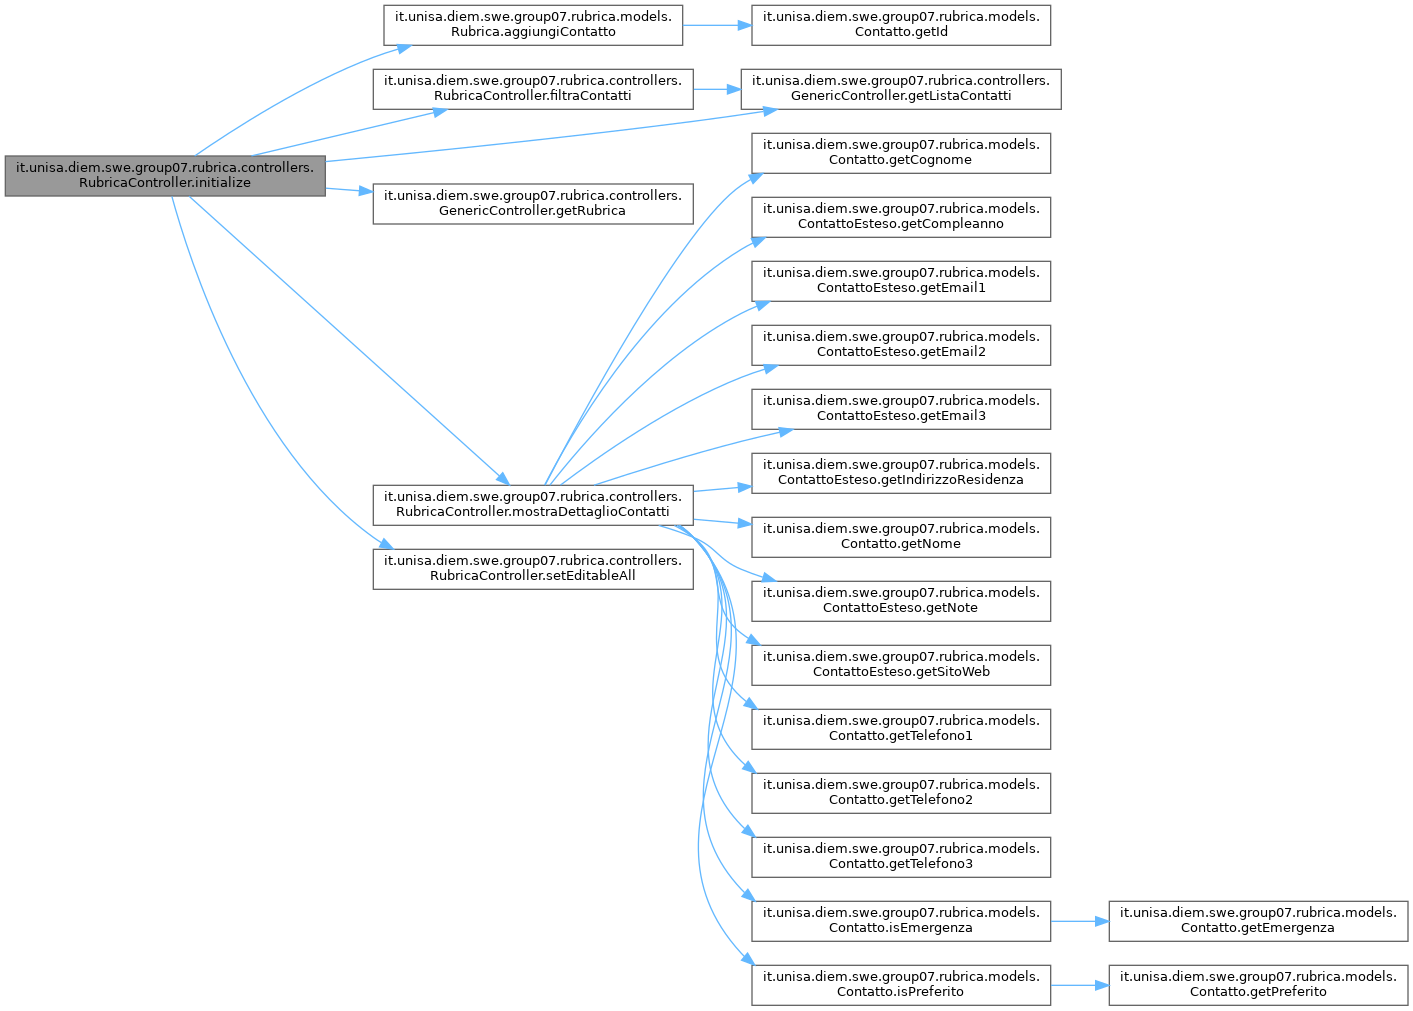
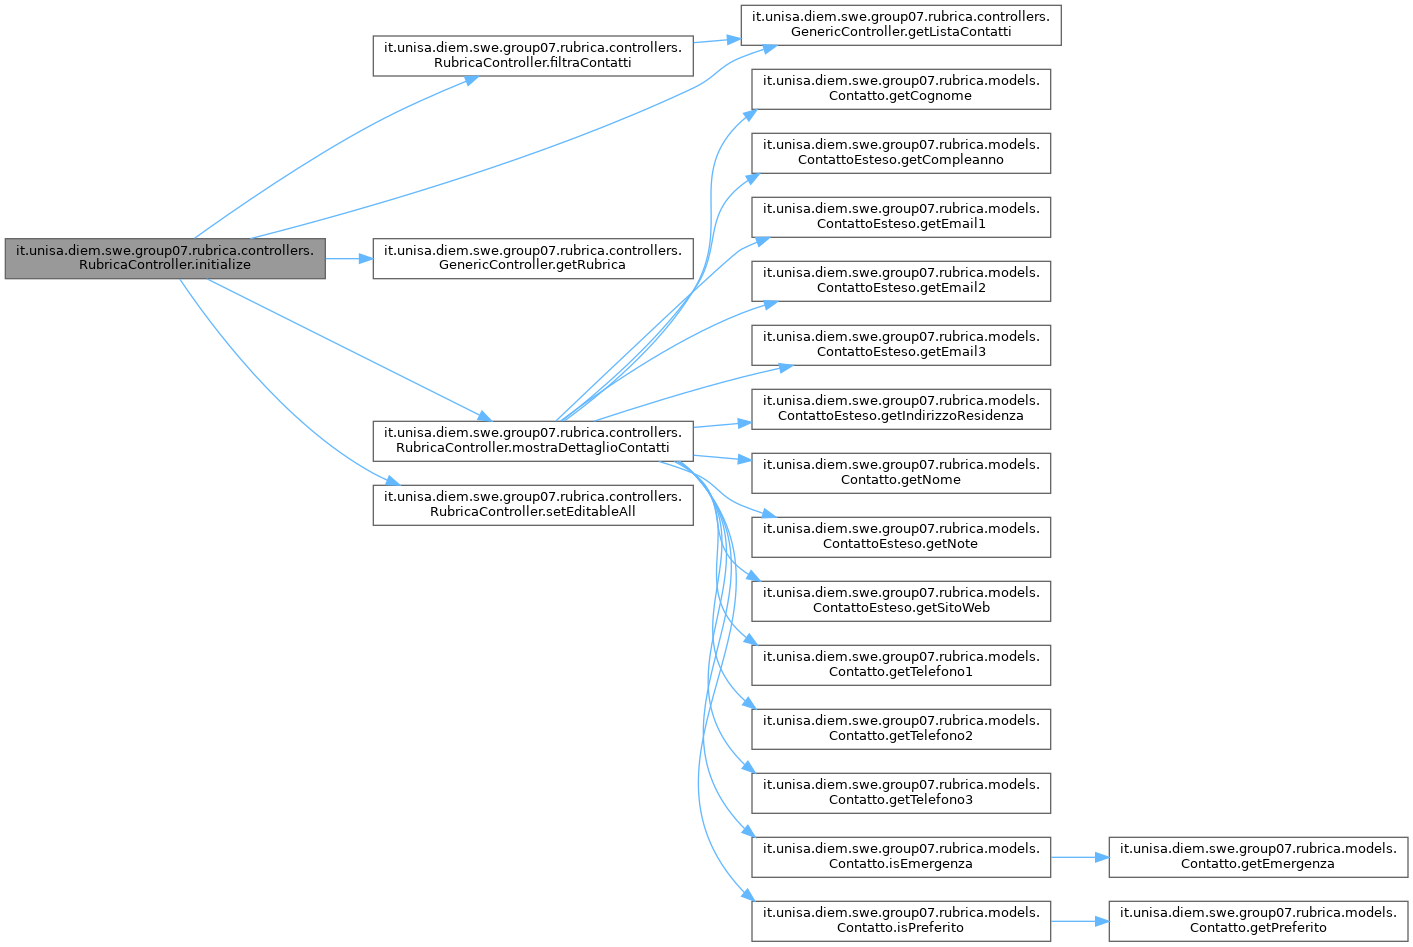
Deploying to gh-pages from @ emanueletocci/uni-swe-project@c8749e26133e7eb589721eaa3a0aa9cee53b4d54 🚀

diff --git a/classit_1_1unisa_1_1diem_1_1swe_1_1group07_1_1rubrica_1_1controllers_1_1RubricaController.html b/classit_1_1unisa_1_1diem_1_1swe_1_1group07_1_1rubrica_1_1controllers_1_1RubricaController.html
@@ -505,30 +505,28 @@ Questo è il grafo delle chiamate per questa funzione:</div>
 <div class="dyncontent">
 <div class="center"><img src="classit_1_1unisa_1_1diem_1_1swe_1_1group07_1_1rubrica_1_1controllers_1_1RubricaController_acb62cc49f7e3289ddeb4f246b4f0a199_cgraph.png" border="0" usemap="#aclassit_1_1unisa_1_1diem_1_1swe_1_1group07_1_1rubrica_1_1controllers_1_1RubricaController_acb62cc49f7e3289ddeb4f246b4f0a199_cgraph" alt=""/></div>
 <map name="aclassit_1_1unisa_1_1diem_1_1swe_1_1group07_1_1rubrica_1_1controllers_1_1RubricaController_acb62cc49f7e3289ddeb4f246b4f0a199_cgraph" id="aclassit_1_1unisa_1_1diem_1_1swe_1_1group07_1_1rubrica_1_1controllers_1_1RubricaController_acb62cc49f7e3289ddeb4f246b4f0a199_cgraph">
-<area shape="rect" title="Metodo di inizializzazione della vista e dei dati. Imposta la lista dei contatti, la configurazione d..." alt="" coords="5,156,325,196"/>
-<area shape="rect" href="classit_1_1unisa_1_1diem_1_1swe_1_1group07_1_1rubrica_1_1models_1_1Rubrica.html#aff024ceff1028798221cec28058c14d5" title="il metodo aggiunge un contatto alla rubrica e verifica se l&#39;aggiunta é andata a buon fine." alt="" coords="384,5,683,45"/>
-<area shape="rect" href="classit_1_1unisa_1_1diem_1_1swe_1_1group07_1_1rubrica_1_1controllers_1_1RubricaController.html#a5055117e4f13ea618542b7b5a3edc48e" title="Metodo per filtrare i contatti in base al nome o al cognome." alt="" coords="373,69,693,109"/>
-<area shape="rect" href="classit_1_1unisa_1_1diem_1_1swe_1_1group07_1_1rubrica_1_1controllers_1_1GenericController.html#a3eac439a72130840f569e6c24fb0b080" title="metodo getter della struttura (lista osservabile)." alt="" coords="741,69,1061,109"/>
-<area shape="rect" href="classit_1_1unisa_1_1diem_1_1swe_1_1group07_1_1rubrica_1_1controllers_1_1GenericController.html#a224c3322a29288a8a1a4dc6b9c40bee7" title="metodo getter dell&#39;attributo rubrica." alt="" coords="373,184,693,224"/>
-<area shape="rect" href="classit_1_1unisa_1_1diem_1_1swe_1_1group07_1_1rubrica_1_1controllers_1_1RubricaController.html#a0a4f915570de16fd62412c1d5cf9e07d" title="Metodo per mostrare i dettagli di un contatto selezionato nella rubrica." alt="" coords="373,485,693,525"/>
-<area shape="rect" href="classit_1_1unisa_1_1diem_1_1swe_1_1group07_1_1rubrica_1_1controllers_1_1RubricaController.html#a68295f290d8340e22510984bbbaa42f4" title="Imposta se tutti i campi di testo sono editabili o meno." alt="" coords="373,549,693,589"/>
-<area shape="rect" href="classit_1_1unisa_1_1diem_1_1swe_1_1group07_1_1rubrica_1_1models_1_1Contatto.html#a53ef90855656ba9330f072c5d916522d" title="metodo getter per l&#39;attributo &quot;id&quot;." alt="" coords="752,5,1051,45"/>
-<area shape="rect" href="classit_1_1unisa_1_1diem_1_1swe_1_1group07_1_1rubrica_1_1models_1_1Contatto.html#a9c2c4132e79ef8782c65bba90c5b3527" title="metodo getter per l&#39;attributo &quot;cognome&quot;" alt="" coords="752,133,1051,173"/>
-<area shape="rect" href="classit_1_1unisa_1_1diem_1_1swe_1_1group07_1_1rubrica_1_1models_1_1ContattoEsteso.html#a823a03f6f032bb0de9a24f5ebe15ab76" title="metodo getter per l&#39;attributo &quot;compleanno&quot;" alt="" coords="752,197,1051,237"/>
-<area shape="rect" href="classit_1_1unisa_1_1diem_1_1swe_1_1group07_1_1rubrica_1_1models_1_1ContattoEsteso.html#a9ab7386b8ed76bbd5b906f2cbb65165d" title="metodo getter per l&#39;attributo &quot;email1&quot;" alt="" coords="752,261,1051,301"/>
-<area shape="rect" href="classit_1_1unisa_1_1diem_1_1swe_1_1group07_1_1rubrica_1_1models_1_1ContattoEsteso.html#a8743443e4215421db5e996428ddd6097" title="metodo getter per l&#39;attributo &quot;email2&quot;" alt="" coords="752,325,1051,365"/>
-<area shape="rect" href="classit_1_1unisa_1_1diem_1_1swe_1_1group07_1_1rubrica_1_1models_1_1ContattoEsteso.html#a1e1e8b5da05d600e6f9456ef8d06592a" title="metodo getter per l&#39;attributo &quot;email3&quot;" alt="" coords="752,389,1051,429"/>
-<area shape="rect" href="classit_1_1unisa_1_1diem_1_1swe_1_1group07_1_1rubrica_1_1models_1_1ContattoEsteso.html#ad2039eb15bef84da1619c3d091a181a3" title="metodo getter per l&#39;attributo &quot;indirizzoResidenza&quot;" alt="" coords="752,453,1051,493"/>
-<area shape="rect" href="classit_1_1unisa_1_1diem_1_1swe_1_1group07_1_1rubrica_1_1models_1_1Contatto.html#abfa304de5195706e62d361a032e99855" title="metodo getter per l&#39;attributo &quot;nome&quot;." alt="" coords="752,517,1051,557"/>
-<area shape="rect" href="classit_1_1unisa_1_1diem_1_1swe_1_1group07_1_1rubrica_1_1models_1_1ContattoEsteso.html#aafc4646ad9f8de2068aa86895444d10b" title="metodo getter per l&#39;attributo &quot;note&quot;" alt="" coords="752,581,1051,621"/>
-<area shape="rect" href="classit_1_1unisa_1_1diem_1_1swe_1_1group07_1_1rubrica_1_1models_1_1ContattoEsteso.html#ac373cc1ccc1e04f77fc90227a5f403bf" title="metodo getter per l&#39;attributo &quot;sitoWeb&quot;" alt="" coords="752,645,1051,685"/>
-<area shape="rect" href="classit_1_1unisa_1_1diem_1_1swe_1_1group07_1_1rubrica_1_1models_1_1Contatto.html#a02711cece66671e6e805c18d300e0852" title="metodo getter per l&#39;attributo &quot;telefono1&quot;." alt="" coords="752,709,1051,749"/>
-<area shape="rect" href="classit_1_1unisa_1_1diem_1_1swe_1_1group07_1_1rubrica_1_1models_1_1Contatto.html#adf58cd397d8e0699b80420add3a34a80" title="metodo getter per l&#39;attributo &quot;telefono2&quot;." alt="" coords="752,773,1051,813"/>
-<area shape="rect" href="classit_1_1unisa_1_1diem_1_1swe_1_1group07_1_1rubrica_1_1models_1_1Contatto.html#a5a2452ab4b282d49a991245eda51e572" title="metodo getter per l&#39;attributo &quot;telefono3&quot;." alt="" coords="752,837,1051,877"/>
-<area shape="rect" href="classit_1_1unisa_1_1diem_1_1swe_1_1group07_1_1rubrica_1_1models_1_1Contatto.html#ae45dfded28545cdef6b40895b1a30162" title="controlla se un contatto è d&#39;emergenza" alt="" coords="752,901,1051,941"/>
-<area shape="rect" href="classit_1_1unisa_1_1diem_1_1swe_1_1group07_1_1rubrica_1_1models_1_1Contatto.html#a2ce97cff6a914d4f9b350a0dc8d835f2" title="controlla se un contatto è preferito." alt="" coords="752,965,1051,1005"/>
-<area shape="rect" href="classit_1_1unisa_1_1diem_1_1swe_1_1group07_1_1rubrica_1_1models_1_1Contatto.html#a3c2ccd77eac54f161d7491949053f583" title="metodo getter per l&#39;attributo &quot;emergenza&quot;" alt="" coords="1109,901,1408,941"/>
-<area shape="rect" href="classit_1_1unisa_1_1diem_1_1swe_1_1group07_1_1rubrica_1_1models_1_1Contatto.html#af118bd9ef53084262ccc42c4031ef137" title="metodo getter per l&#39;attributo &quot;preferito&quot;." alt="" coords="1109,965,1408,1005"/>
+<area shape="rect" title="Metodo di inizializzazione della vista e dei dati. Imposta la lista dei contatti, la configurazione d..." alt="" coords="5,239,325,279"/>
+<area shape="rect" href="classit_1_1unisa_1_1diem_1_1swe_1_1group07_1_1rubrica_1_1controllers_1_1RubricaController.html#a5055117e4f13ea618542b7b5a3edc48e" title="Metodo per filtrare i contatti in base al nome o al cognome." alt="" coords="373,36,693,76"/>
+<area shape="rect" href="classit_1_1unisa_1_1diem_1_1swe_1_1group07_1_1rubrica_1_1controllers_1_1GenericController.html#a3eac439a72130840f569e6c24fb0b080" title="metodo getter della struttura (lista osservabile)." alt="" coords="741,5,1061,45"/>
+<area shape="rect" href="classit_1_1unisa_1_1diem_1_1swe_1_1group07_1_1rubrica_1_1controllers_1_1GenericController.html#a224c3322a29288a8a1a4dc6b9c40bee7" title="metodo getter dell&#39;attributo rubrica." alt="" coords="373,239,693,279"/>
+<area shape="rect" href="classit_1_1unisa_1_1diem_1_1swe_1_1group07_1_1rubrica_1_1controllers_1_1RubricaController.html#a0a4f915570de16fd62412c1d5cf9e07d" title="Metodo per mostrare i dettagli di un contatto selezionato nella rubrica." alt="" coords="373,421,693,461"/>
+<area shape="rect" href="classit_1_1unisa_1_1diem_1_1swe_1_1group07_1_1rubrica_1_1controllers_1_1RubricaController.html#a68295f290d8340e22510984bbbaa42f4" title="Imposta se tutti i campi di testo sono editabili o meno." alt="" coords="373,485,693,525"/>
+<area shape="rect" href="classit_1_1unisa_1_1diem_1_1swe_1_1group07_1_1rubrica_1_1models_1_1Contatto.html#a9c2c4132e79ef8782c65bba90c5b3527" title="metodo getter per l&#39;attributo &quot;cognome&quot;" alt="" coords="752,69,1051,109"/>
+<area shape="rect" href="classit_1_1unisa_1_1diem_1_1swe_1_1group07_1_1rubrica_1_1models_1_1ContattoEsteso.html#a823a03f6f032bb0de9a24f5ebe15ab76" title="metodo getter per l&#39;attributo &quot;compleanno&quot;" alt="" coords="752,133,1051,173"/>
+<area shape="rect" href="classit_1_1unisa_1_1diem_1_1swe_1_1group07_1_1rubrica_1_1models_1_1ContattoEsteso.html#a9ab7386b8ed76bbd5b906f2cbb65165d" title="metodo getter per l&#39;attributo &quot;email1&quot;" alt="" coords="752,197,1051,237"/>
+<area shape="rect" href="classit_1_1unisa_1_1diem_1_1swe_1_1group07_1_1rubrica_1_1models_1_1ContattoEsteso.html#a8743443e4215421db5e996428ddd6097" title="metodo getter per l&#39;attributo &quot;email2&quot;" alt="" coords="752,261,1051,301"/>
+<area shape="rect" href="classit_1_1unisa_1_1diem_1_1swe_1_1group07_1_1rubrica_1_1models_1_1ContattoEsteso.html#a1e1e8b5da05d600e6f9456ef8d06592a" title="metodo getter per l&#39;attributo &quot;email3&quot;" alt="" coords="752,325,1051,365"/>
+<area shape="rect" href="classit_1_1unisa_1_1diem_1_1swe_1_1group07_1_1rubrica_1_1models_1_1ContattoEsteso.html#ad2039eb15bef84da1619c3d091a181a3" title="metodo getter per l&#39;attributo &quot;indirizzoResidenza&quot;" alt="" coords="752,389,1051,429"/>
+<area shape="rect" href="classit_1_1unisa_1_1diem_1_1swe_1_1group07_1_1rubrica_1_1models_1_1Contatto.html#abfa304de5195706e62d361a032e99855" title="metodo getter per l&#39;attributo &quot;nome&quot;." alt="" coords="752,453,1051,493"/>
+<area shape="rect" href="classit_1_1unisa_1_1diem_1_1swe_1_1group07_1_1rubrica_1_1models_1_1ContattoEsteso.html#aafc4646ad9f8de2068aa86895444d10b" title="metodo getter per l&#39;attributo &quot;note&quot;" alt="" coords="752,517,1051,557"/>
+<area shape="rect" href="classit_1_1unisa_1_1diem_1_1swe_1_1group07_1_1rubrica_1_1models_1_1ContattoEsteso.html#ac373cc1ccc1e04f77fc90227a5f403bf" title="metodo getter per l&#39;attributo &quot;sitoWeb&quot;" alt="" coords="752,581,1051,621"/>
+<area shape="rect" href="classit_1_1unisa_1_1diem_1_1swe_1_1group07_1_1rubrica_1_1models_1_1Contatto.html#a02711cece66671e6e805c18d300e0852" title="metodo getter per l&#39;attributo &quot;telefono1&quot;." alt="" coords="752,645,1051,685"/>
+<area shape="rect" href="classit_1_1unisa_1_1diem_1_1swe_1_1group07_1_1rubrica_1_1models_1_1Contatto.html#adf58cd397d8e0699b80420add3a34a80" title="metodo getter per l&#39;attributo &quot;telefono2&quot;." alt="" coords="752,709,1051,749"/>
+<area shape="rect" href="classit_1_1unisa_1_1diem_1_1swe_1_1group07_1_1rubrica_1_1models_1_1Contatto.html#a5a2452ab4b282d49a991245eda51e572" title="metodo getter per l&#39;attributo &quot;telefono3&quot;." alt="" coords="752,773,1051,813"/>
+<area shape="rect" href="classit_1_1unisa_1_1diem_1_1swe_1_1group07_1_1rubrica_1_1models_1_1Contatto.html#ae45dfded28545cdef6b40895b1a30162" title="controlla se un contatto è d&#39;emergenza" alt="" coords="752,837,1051,877"/>
+<area shape="rect" href="classit_1_1unisa_1_1diem_1_1swe_1_1group07_1_1rubrica_1_1models_1_1Contatto.html#a2ce97cff6a914d4f9b350a0dc8d835f2" title="controlla se un contatto è preferito." alt="" coords="752,901,1051,941"/>
+<area shape="rect" href="classit_1_1unisa_1_1diem_1_1swe_1_1group07_1_1rubrica_1_1models_1_1Contatto.html#a3c2ccd77eac54f161d7491949053f583" title="metodo getter per l&#39;attributo &quot;emergenza&quot;" alt="" coords="1109,837,1408,877"/>
+<area shape="rect" href="classit_1_1unisa_1_1diem_1_1swe_1_1group07_1_1rubrica_1_1models_1_1Contatto.html#af118bd9ef53084262ccc42c4031ef137" title="metodo getter per l&#39;attributo &quot;preferito&quot;." alt="" coords="1109,901,1408,941"/>
 </map>
 </div>
 

diff --git a/classit_1_1unisa_1_1diem_1_1swe_1_1group07_1_1rubrica_1_1models_1_1Contatto.html b/classit_1_1unisa_1_1diem_1_1swe_1_1group07_1_1rubrica_1_1models_1_1Contatto.html
@@ -435,18 +435,17 @@ Questo è il grafo dei chiamanti di questa funzione:</div>
 <div class="dyncontent">
 <div class="center"><img src="classit_1_1unisa_1_1diem_1_1swe_1_1group07_1_1rubrica_1_1models_1_1Contatto_a53ef90855656ba9330f072c5d916522d_icgraph.png" border="0" usemap="#aclassit_1_1unisa_1_1diem_1_1swe_1_1group07_1_1rubrica_1_1models_1_1Contatto_a53ef90855656ba9330f072c5d916522d_icgraph" alt=""/></div>
 <map name="aclassit_1_1unisa_1_1diem_1_1swe_1_1group07_1_1rubrica_1_1models_1_1Contatto_a53ef90855656ba9330f072c5d916522d_icgraph" id="aclassit_1_1unisa_1_1diem_1_1swe_1_1group07_1_1rubrica_1_1models_1_1Contatto_a53ef90855656ba9330f072c5d916522d_icgraph">
-<area shape="rect" title="metodo getter per l&#39;attributo &quot;id&quot;." alt="" coords="1121,165,1420,205"/>
-<area shape="rect" href="classit_1_1unisa_1_1diem_1_1swe_1_1group07_1_1rubrica_1_1models_1_1Rubrica.html#ab7e78976d01eea65240b5dcdb8f1f5e3" title="il metodo consente di aggiornare un contatto esistente nella rubrica." alt="" coords="384,5,683,45"/>
-<area shape="rect" href="classit_1_1unisa_1_1diem_1_1swe_1_1group07_1_1rubrica_1_1models_1_1Rubrica.html#aff024ceff1028798221cec28058c14d5" title="il metodo aggiunge un contatto alla rubrica e verifica se l&#39;aggiunta é andata a buon fine." alt="" coords="758,69,1057,109"/>
-<area shape="rect" href="classit_1_1unisa_1_1diem_1_1swe_1_1group07_1_1rubrica_1_1gestoreIO_1_1Export.html#a3304f558b87c2094133dea6bf8e1088d" title="metodo per ottenere la formattazione conforme allo standard vCard da un contatto" alt="" coords="759,133,1055,173"/>
-<area shape="rect" href="classit_1_1unisa_1_1diem_1_1swe_1_1group07_1_1rubrica_1_1controllers_1_1CreaContattoController.html#a16d9eaa6b2dcf48fa2e33e168a17e0c2" title="Il metodo preleva i valori dai Text Field, crea un contatto temporaneo e, se i valori inseriti dall&#39;u..." alt="" coords="741,197,1073,237"/>
-<area shape="rect" href="classit_1_1unisa_1_1diem_1_1swe_1_1group07_1_1rubrica_1_1models_1_1Rubrica.html#aeb6463bdf05a6a16e0635edae7c0a4bf" title="metodo ricerca di un contatto in rubrica" alt="" coords="758,261,1057,301"/>
-<area shape="rect" href="classit_1_1unisa_1_1diem_1_1swe_1_1group07_1_1rubrica_1_1models_1_1Rubrica.html#adfade3b396138d21829007118365fe2e" title="metodo per la rimozione di un contatto dalla rubrica" alt="" coords="758,325,1057,365"/>
-<area shape="rect" href="classit_1_1unisa_1_1diem_1_1swe_1_1group07_1_1rubrica_1_1controllers_1_1RubricaController.html#acb62cc49f7e3289ddeb4f246b4f0a199" title="Metodo di inizializzazione della vista e dei dati. Imposta la lista dei contatti, la configurazione d..." alt="" coords="373,69,693,109"/>
-<area shape="rect" href="classit_1_1unisa_1_1diem_1_1swe_1_1group07_1_1rubrica_1_1gestoreIO_1_1Export.html#a17c7095e7bf7f45587ec1b8d528a40ea" title="metodo per fornire un file di output conforme allo standard vCard che contiene tutta le informazioni ..." alt="" coords="385,133,681,173"/>
-<area shape="rect" href="classit_1_1unisa_1_1diem_1_1swe_1_1group07_1_1rubrica_1_1gestoreIO_1_1Export.html#a91f65a6e35064ea1af3bbc0168cee290" title="metodo per fornire un file di output conforme allo standard vCard che contiene tutta la rubrica" alt="" coords="385,197,681,237"/>
-<area shape="rect" href="classit_1_1unisa_1_1diem_1_1swe_1_1group07_1_1rubrica_1_1controllers_1_1RubricaController.html#a28f1cd139c6377895c583d8d6edcae27" title="Gestore dell&#39;evento &quot;Esporta Contatto&quot;. Il metodo apre una finestra che consente all&#39;utente di selezi..." alt="" coords="5,133,325,173"/>
-<area shape="rect" href="classit_1_1unisa_1_1diem_1_1swe_1_1group07_1_1rubrica_1_1controllers_1_1RubricaController.html#abeefa96d3b060c12c1a51c405e6ff179" title="Gestore dell&#39;evento relativo al click del pulsante &quot;Esporta Rubrica&quot;. Il metodo apre una finestra che..." alt="" coords="5,197,325,237"/>
+<area shape="rect" title="metodo getter per l&#39;attributo &quot;id&quot;." alt="" coords="1100,147,1399,187"/>
+<area shape="rect" href="classit_1_1unisa_1_1diem_1_1swe_1_1group07_1_1rubrica_1_1models_1_1Rubrica.html#ab7e78976d01eea65240b5dcdb8f1f5e3" title="il metodo consente di aggiornare un contatto esistente nella rubrica." alt="" coords="373,9,672,49"/>
+<area shape="rect" href="classit_1_1unisa_1_1diem_1_1swe_1_1group07_1_1rubrica_1_1models_1_1Rubrica.html#aff024ceff1028798221cec28058c14d5" title="il metodo aggiunge un contatto alla rubrica e verifica se l&#39;aggiunta é andata a buon fine." alt="" coords="737,51,1035,91"/>
+<area shape="rect" href="classit_1_1unisa_1_1diem_1_1swe_1_1group07_1_1rubrica_1_1gestoreIO_1_1Export.html#a3304f558b87c2094133dea6bf8e1088d" title="metodo per ottenere la formattazione conforme allo standard vCard da un contatto" alt="" coords="738,115,1034,155"/>
+<area shape="rect" href="classit_1_1unisa_1_1diem_1_1swe_1_1group07_1_1rubrica_1_1controllers_1_1CreaContattoController.html#a16d9eaa6b2dcf48fa2e33e168a17e0c2" title="Il metodo preleva i valori dai Text Field, crea un contatto temporaneo e, se i valori inseriti dall&#39;u..." alt="" coords="720,179,1052,219"/>
+<area shape="rect" href="classit_1_1unisa_1_1diem_1_1swe_1_1group07_1_1rubrica_1_1models_1_1Rubrica.html#aeb6463bdf05a6a16e0635edae7c0a4bf" title="metodo ricerca di un contatto in rubrica" alt="" coords="737,243,1035,283"/>
+<area shape="rect" href="classit_1_1unisa_1_1diem_1_1swe_1_1group07_1_1rubrica_1_1models_1_1Rubrica.html#adfade3b396138d21829007118365fe2e" title="metodo per la rimozione di un contatto dalla rubrica" alt="" coords="737,307,1035,347"/>
+<area shape="rect" href="classit_1_1unisa_1_1diem_1_1swe_1_1group07_1_1rubrica_1_1gestoreIO_1_1Export.html#a17c7095e7bf7f45587ec1b8d528a40ea" title="metodo per fornire un file di output conforme allo standard vCard che contiene tutta le informazioni ..." alt="" coords="375,87,671,127"/>
+<area shape="rect" href="classit_1_1unisa_1_1diem_1_1swe_1_1group07_1_1rubrica_1_1gestoreIO_1_1Export.html#a91f65a6e35064ea1af3bbc0168cee290" title="metodo per fornire un file di output conforme allo standard vCard che contiene tutta la rubrica" alt="" coords="375,151,671,191"/>
+<area shape="rect" href="classit_1_1unisa_1_1diem_1_1swe_1_1group07_1_1rubrica_1_1controllers_1_1RubricaController.html#a28f1cd139c6377895c583d8d6edcae27" title="Gestore dell&#39;evento &quot;Esporta Contatto&quot;. Il metodo apre una finestra che consente all&#39;utente di selezi..." alt="" coords="5,87,325,127"/>
+<area shape="rect" href="classit_1_1unisa_1_1diem_1_1swe_1_1group07_1_1rubrica_1_1controllers_1_1RubricaController.html#abeefa96d3b060c12c1a51c405e6ff179" title="Gestore dell&#39;evento relativo al click del pulsante &quot;Esporta Rubrica&quot;. Il metodo apre una finestra che..." alt="" coords="5,151,325,191"/>
 </map>
 </div>
 

diff --git a/classit_1_1unisa_1_1diem_1_1swe_1_1group07_1_1rubrica_1_1models_1_1Rubrica.html b/classit_1_1unisa_1_1diem_1_1swe_1_1group07_1_1rubrica_1_1models_1_1Rubrica.html
@@ -198,9 +198,8 @@ Questo è il grafo dei chiamanti di questa funzione:</div>
 <div class="dyncontent">
 <div class="center"><img src="classit_1_1unisa_1_1diem_1_1swe_1_1group07_1_1rubrica_1_1models_1_1Rubrica_aff024ceff1028798221cec28058c14d5_icgraph.png" border="0" usemap="#aclassit_1_1unisa_1_1diem_1_1swe_1_1group07_1_1rubrica_1_1models_1_1Rubrica_aff024ceff1028798221cec28058c14d5_icgraph" alt=""/></div>
 <map name="aclassit_1_1unisa_1_1diem_1_1swe_1_1group07_1_1rubrica_1_1models_1_1Rubrica_aff024ceff1028798221cec28058c14d5_icgraph" id="aclassit_1_1unisa_1_1diem_1_1swe_1_1group07_1_1rubrica_1_1models_1_1Rubrica_aff024ceff1028798221cec28058c14d5_icgraph">
-<area shape="rect" title="il metodo aggiunge un contatto alla rubrica e verifica se l&#39;aggiunta é andata a buon fine." alt="" coords="373,37,672,77"/>
-<area shape="rect" href="classit_1_1unisa_1_1diem_1_1swe_1_1group07_1_1rubrica_1_1models_1_1Rubrica.html#ab7e78976d01eea65240b5dcdb8f1f5e3" title="il metodo consente di aggiornare un contatto esistente nella rubrica." alt="" coords="16,5,315,45"/>
-<area shape="rect" href="classit_1_1unisa_1_1diem_1_1swe_1_1group07_1_1rubrica_1_1controllers_1_1RubricaController.html#acb62cc49f7e3289ddeb4f246b4f0a199" title="Metodo di inizializzazione della vista e dei dati. Imposta la lista dei contatti, la configurazione d..." alt="" coords="5,69,325,109"/>
+<area shape="rect" title="il metodo aggiunge un contatto alla rubrica e verifica se l&#39;aggiunta é andata a buon fine." alt="" coords="352,5,651,45"/>
+<area shape="rect" href="classit_1_1unisa_1_1diem_1_1swe_1_1group07_1_1rubrica_1_1models_1_1Rubrica.html#ab7e78976d01eea65240b5dcdb8f1f5e3" title="il metodo consente di aggiornare un contatto esistente nella rubrica." alt="" coords="5,5,304,45"/>
 </map>
 </div>
 
